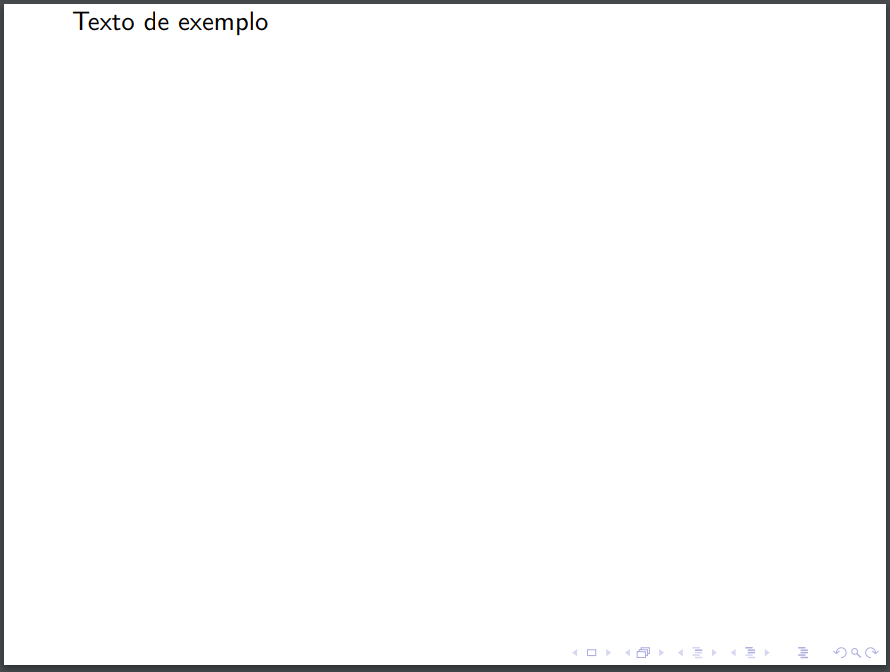
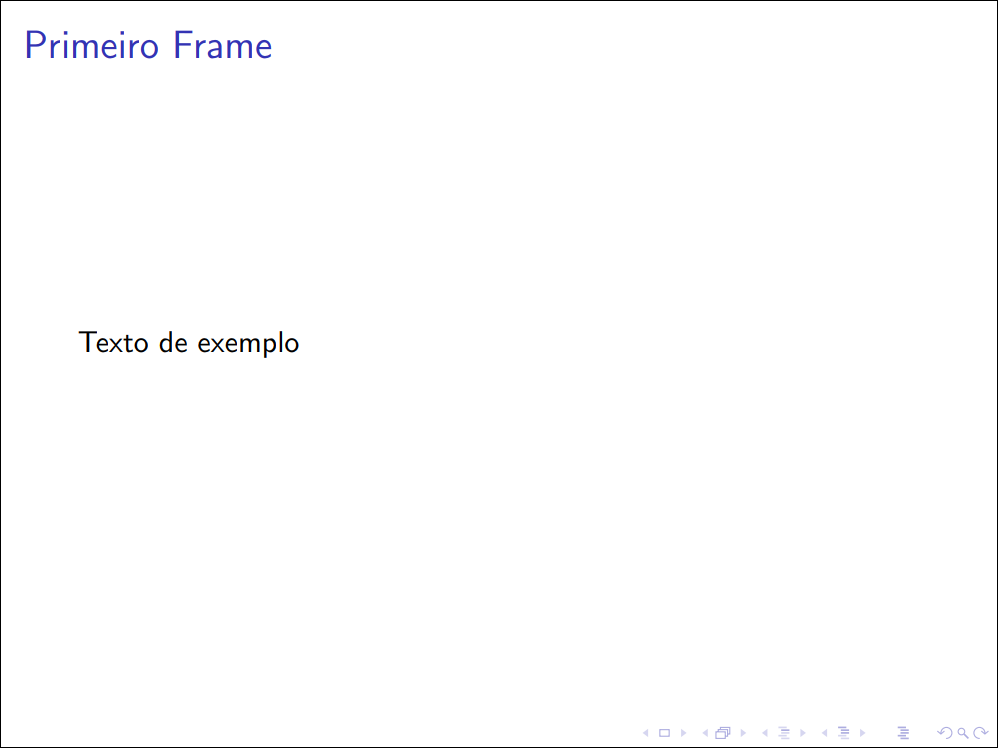
Add preamble, refine images border and add about sections 'Prática' and 'Resultado'.

Changed region(s): [[0.0, 0.0, 1.0, 1.0], [0.0607, 0.4375, 0.3034, 0.5]]

diff --git a/langs/latex/src/first/general-structure.md b/langs/latex/src/first/general-structure.md
@@ -4,7 +4,7 @@ Estrutura geral e classes
 Arquivos LaTeX são organizados, em resumo, da seguinte forma:
 
 1. Classe do documento
-2. Preâmbulo
+2. Preâmbulo (próximo tópico)
 3. Documento
 
 Na **classe do documento** se define justamente que tipo de documento se trata.
@@ -17,6 +17,39 @@ As classes principais são:
 Há várias outras classes que podem ser interessantes, dependendo do tipo de
 documento. Você pode checar algumas delas [na introdução a LaTeX do
 Overleaf](https://www.overleaf.com/learn/latex/Creating_a_document_in_LaTeX#Reference_guide).
+
+No **documento** fica o conteúdo do seu documento: todos os capítulos,
+parágrafos, tabelas, imagens, etc. Ao longo deste capítulo serão vistos vários
+comandos que podem ser utilizados nele.
+
+Comandos e ambientes
+--------------------
+
+Você irá perceber que LaTeX é composto majoritariamente de comandos e
+ambientes.
+
+**Comandos**, assim como _macros_, são precedidos por `\`. `\textbf{<texto>}`,
+por exemplo, é o comando para deixar um texto em negrito:
+
+```latex
+\textbf{Este trecho está em negrito.}
+Já este outro trecho não.
+```
+
+O que irá gerar algo como:
+
+>**Este trecho está em negrito.**
+>Já este outro não.
+
+**Ambientes** são como comandos, porém para blocos de código em vez de pequenos
+textos. O seu documento, por exemplo, é definido no ambiente `document`, como
+você verá na parte prática. Ambientes podem ser utilizados com:
+
+```latex
+\begin{<ambiente>}
+    <conteúdo>
+\end{<ambiente>}
+```
 
 Prática
 -------
@@ -44,6 +77,28 @@ Esboce seu primeiro documento seguindo os passos:
    \end{document}
    ```
 
+   Se você estiver utilizando `beamer`, cada slide deve estar em um ambiente
+   `frame`, portanto o código deve ser:
+
+   ```latex
+   \begin{document}
+       \begin{frame}
+           Texto de exemplo.
+       \end{frame}
+   \end{document}
+   ```
+
+   Você pode ainda aproveitar e colocar um título para esse `frame`, da forma:
+
+
+   ```latex
+   \begin{document}
+       \begin{frame}{Primeiro Frame}
+           Texto de exemplo.
+       \end{frame}
+   \end{document}
+   ```
+
 5. Utilize seu compilador para gerar o PDF a partir do `main.tex`, por exemplo:
 
    ```console
@@ -54,6 +109,8 @@ Tendo feito esses 5 passos, você agora terá um arquivo `main.pdf`. Abaixo
 seguem tanto o código final de exemplo quanto os PDFs gerados quando utilizando
 `article` e `beamer`.
 
+### Com `article`
+
 ```latex
 \documentclass{article}
 
@@ -62,10 +119,18 @@ seguem tanto o código final de exemplo quanto os PDFs gerados quando utilizando
 \end{document}
 ```
 
-### Com `article`
-
 ![Exemplo 1 compilado com Article](./img/example-article-1.png)
 
 ### Com `beamer`
+
+```latex
+\documentclass{beamer}
+
+\begin{document}
+    \begin{frame}{Primeiro Frame}
+        Texto de exemplo
+    \end{frame}
+\end{document}
+```
 
 ![Exemplo 1 compilado com Beamer](./img/example-beamer-1.png)

diff --git a/langs/latex/src/first/preamble.md b/langs/latex/src/first/preamble.md
@@ -1,1 +1,83 @@
-# Preâmbulo: autor, título e data
+Preâmbulo: autor, título e data
+===============================
+
+Como visto no tópico anterior, o Preâmbulo é o que fica entre a definição da
+classe e o documento. Nele vão:
+- Os pacotes utilizados (serão vistos mais à frente);
+- (Re)Definição de comandos, ambientes e _macros_.
+
+Macros são nomes que serão substituídos por algum conteúdo quando o seu LaTeX
+for compilado. Algumas _macros_ são, por exemplo, `\title`, `\author` e
+`\date`, que representam respectivamente o título, autor e data do documento.
+
+Essas macros podem ser definidas da seguinte forma:
+
+```latex
+\title{Título de exemplo}
+\author{Autor exemplar}
+\date{\today}
+```
+
+Perceba que em `\date` foi utilizada uma outra _macro_ como o valor. Essa macro
+contém o dia em que o documento foi compilado, portanto ela muda toda vez que
+você compilar em dias diferentes. Caso você queira especificar uma data, basta
+escrevê-la por extenso:
+
+
+Essas três macros serão úteis, por exemplo, quando você utilizar comandos como
+o `\maketitle`, que, dependendo do tipo de documento e das especificações dos
+pacotes, gera a parte de título do seu documento. No caso de um livro, isso
+significa a capa. No caso de um artigo, significa a área inicial dele que
+contém título, autores e etc. No caso de apresentações de slides, significa o
+slide de abertura/título.
+
+Prática
+-------
+
+1. Insira, depois da definição do `\documentclass{...}` e antes de
+   `\begin{document}`, um título, autor e data apropriados para seu documento
+   de exemplo.
+2. Em seguida, no ambiente do conteúdo do documento, faça a primeira coisa (ou
+   seja, antes mesmo do seu texto de exemplo) ser o comando `\maketitle`.
+3. Por fim, compile e veja o resultado de seu documento.
+
+Resultado
+---------
+
+### Com `article`
+
+```latex
+\documentclass{article}
+
+\title{Aprendendo LaTeX}
+\author{PET Computação}
+\date{\today}
+
+\begin{document}
+    \maketitle
+
+    Texto de exemplo
+\end{document}
+```
+
+![Exemplo 2 compilado com Article](./img/example-article-2.png)
+
+### Com `beamer`
+
+```latex
+\documentclass{beamer}
+
+\title{Aprendendo LaTeX}
+\author{PET Computação}
+\date{\today}
+
+\begin{document}
+    \maketitle
+
+    \begin{frame}{Primeiro frame}
+        Texto de exemplo
+    \end{frame}
+\end{document}
+```
+
+![Exemplo 2 compilado com Beamer](./img/example-beamer-2.png)

diff --git a/langs/latex/src/first/about.md b/langs/latex/src/first/about.md
@@ -18,3 +18,33 @@ Por exemplo, com o XeLaTeX:
 ```console
 $ xelatex arquivo-principal.tex
 ```
+
+O que você verá neste capítulo
+------------------------------
+
+Este capítulo conterá um guia para você ter seu primeiro documento de exemplo
+pronto. Não será exatamente um documento para o fim que você utilizará LaTeX,
+mas servirá para você ir do início ao fim com um documento que tenha:
+
+- Capa;
+- Textos formatados;
+- Pelo menos uma imagem;
+- Referências bibliográficas.
+
+O que irá ajudá-lo a entender como LaTeX funciona e, assim, poder utilizá-lo
+com maior segurança.
+
+Partes práticas e resultado
+---------------------------
+
+Ao final de cada tópico haverá duas seções: "Prática" e "Resultado".
+
+Prática: contém um passo a passo para você fazer em seu documento de exemplo,
+de forma a justamente praticar o que foi visto naquele tópico. Essas práticas
+não levam muito tempo para fazer, são justamente curtas para que você não perca
+tempo e veja o impacto dos recursos que aprendeu naquele tópico.
+
+Resultado: contém imagens, em diferentes classes de documento, com o resultado
+da parte prática, para você poder checar se ambas batem. OBS: Nem todas as
+classes estarão lá, já que algumas alterações possuem o mesmo efeito para duas
+classes diferentes, por exemplo as classes `book` e `article`.
